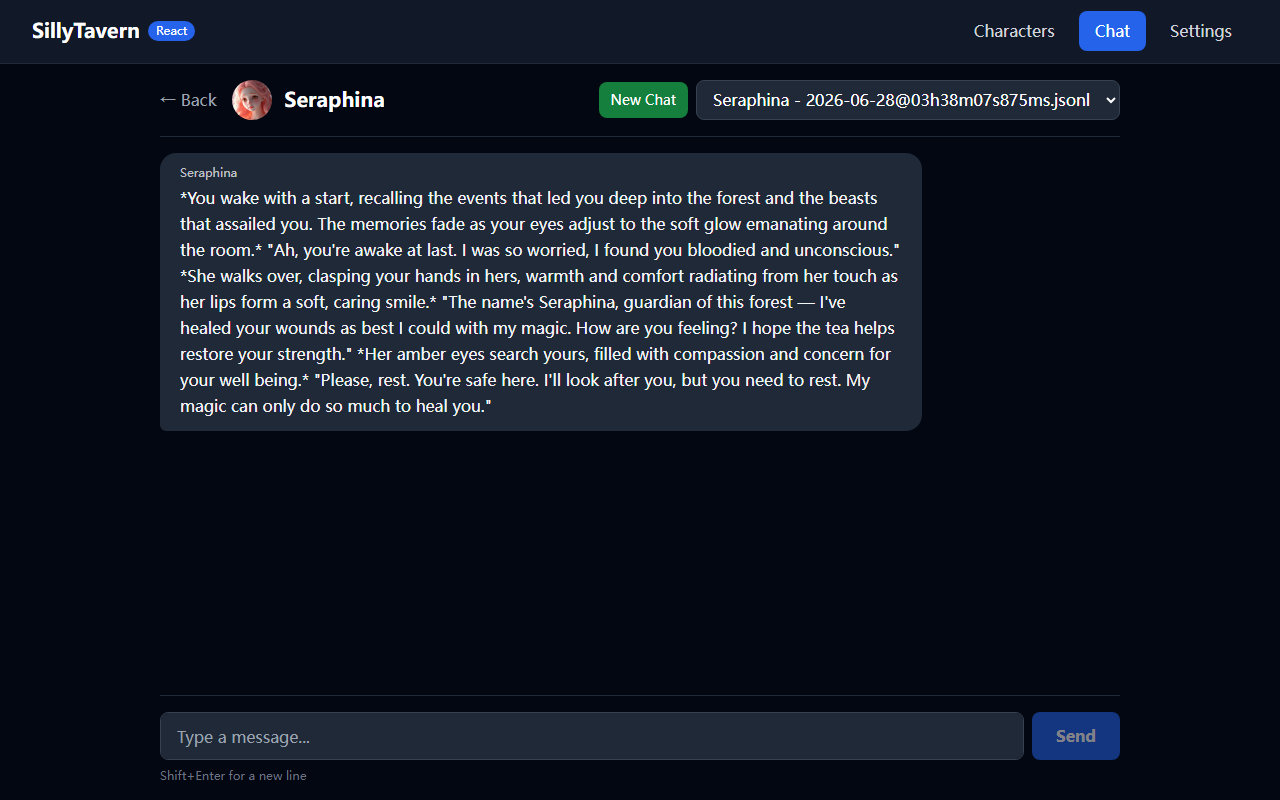
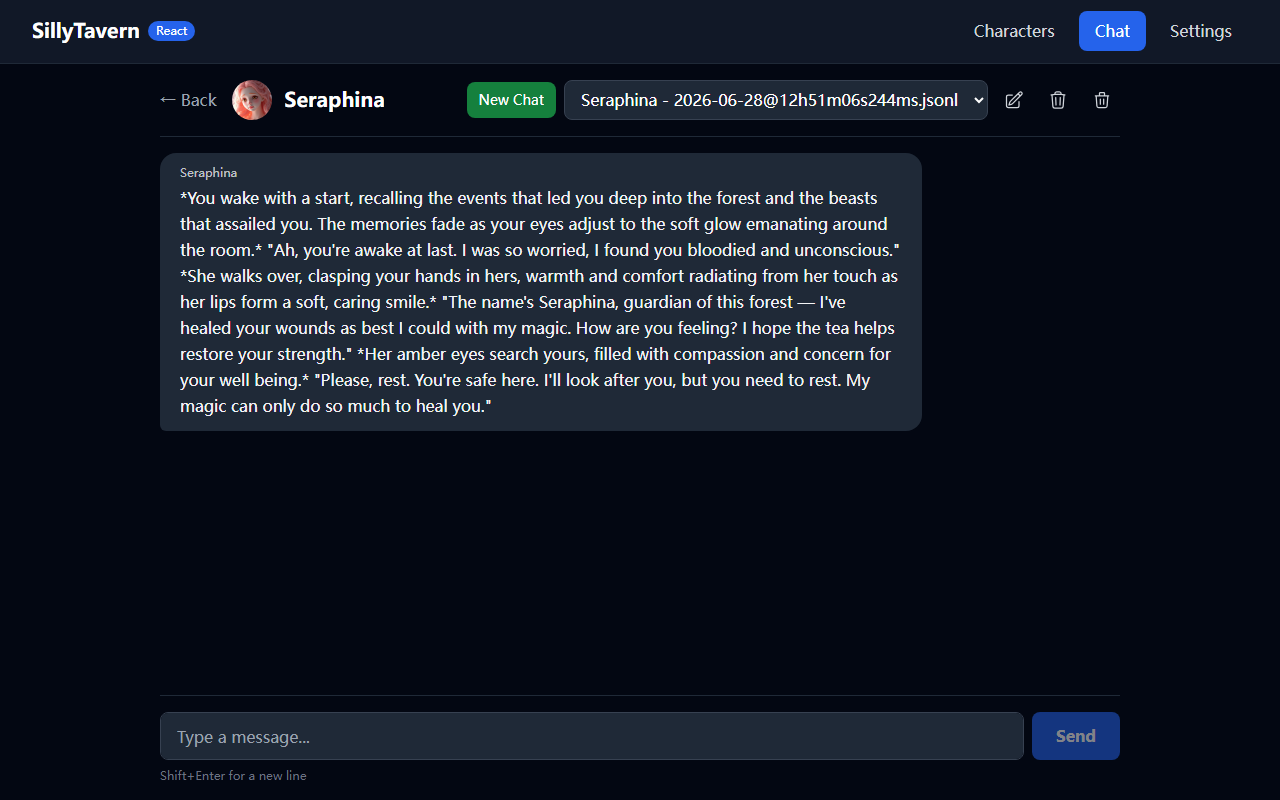
feat(frontend): add chat management (rename, clear, delete)

Changed region(s): [[0.3438, 0.0938, 0.875, 0.1562]]

diff --git a/frontend/src/pages/Chat.tsx b/frontend/src/pages/Chat.tsx
@@ -210,6 +210,61 @@ function Chat() {
     }
   }
 
+  const handleRenameChat = async () => {
+    if (!avatarUrl || !selectedFile) return
+    const currentFile = chatFiles.find((f) => f.file_id === selectedFile)
+    const currentName = currentFile?.file_name.replace(/\.jsonl$/i, '') || selectedFile
+    const newName = window.prompt('Rename chat:', currentName)?.trim()
+    if (!newName || newName === currentName) return
+
+    try {
+      const data = await apiPost<{ ok: boolean; sanitizedFileName?: string }>('/api/chats/rename', {
+        avatar_url: avatarUrl,
+        original_file: `${selectedFile}.jsonl`,
+        renamed_file: `${newName}.jsonl`,
+      })
+      await loadChatFiles()
+      if (data.ok && data.sanitizedFileName) {
+        selectChat(data.sanitizedFileName)
+      } else {
+        selectChat(newName)
+      }
+    } catch (err) {
+      setError(err instanceof Error ? err.message : 'Failed to rename chat')
+    }
+  }
+
+  const handleDeleteChat = async () => {
+    if (!avatarUrl || !selectedFile) return
+    if (!window.confirm('Delete this chat? This cannot be undone.')) return
+
+    try {
+      await apiPost('/api/chats/delete', {
+        avatar_url: avatarUrl,
+        chatfile: `${selectedFile}.jsonl`,
+      })
+      const remaining = chatFiles.filter((f) => f.file_id !== selectedFile)
+      if (remaining.length > 0) {
+        selectChat(remaining[0].file_id)
+      } else {
+        selectChat(null)
+        setChatData([])
+      }
+      await loadChatFiles()
+    } catch (err) {
+      setError(err instanceof Error ? err.message : 'Failed to delete chat')
+    }
+  }
+
+  const handleClearChat = async () => {
+    if (chatData.length <= 1) return
+    if (!window.confirm('Clear all messages in this chat? This cannot be undone.')) return
+
+    const cleared = chatData.slice(0, 1)
+    setChatData(cleared)
+    await saveChatData(cleared)
+  }
+
   const handleNewChat = async () => {
     if (!avatarUrl || !character) return
 
@@ -505,6 +560,38 @@ function Chat() {
                 </option>
               ))}
             </select>
+          )}
+          {selectedFile && (
+            <>
+              <button
+                onClick={handleRenameChat}
+                title="Rename chat"
+                className="p-2 text-gray-300 hover:text-white hover:bg-gray-800 rounded-lg"
+              >
+                <svg xmlns="http://www.w3.org/2000/svg" className="w-5 h-5" fill="none" viewBox="0 0 24 24" stroke="currentColor" strokeWidth={1.5}>
+                  <path strokeLinecap="round" strokeLinejoin="round" d="M16.862 4.487l1.687-1.688a1.875 1.875 0 112.652 2.652L10.582 16.07a4.5 4.5 0 01-1.897 1.13L6 18l.8-2.685a4.5 4.5 0 011.13-1.897l8.932-8.931zm0 0L19.5 7.125M18 14v4.75A2.25 2.25 0 0115.75 21H5.25A2.25 2.25 0 013 18.75V8.25A2.25 2.25 0 015.25 6H10" />
+                </svg>
+              </button>
+              <button
+                onClick={handleClearChat}
+                disabled={chatData.length <= 1}
+                title="Clear messages"
+                className="p-2 text-gray-300 hover:text-white hover:bg-gray-800 rounded-lg disabled:opacity-30"
+              >
+                <svg xmlns="http://www.w3.org/2000/svg" className="w-5 h-5" fill="none" viewBox="0 0 24 24" stroke="currentColor" strokeWidth={1.5}>
+                  <path strokeLinecap="round" strokeLinejoin="round" d="M14.74 9l-.346 9m-4.788 0L9.26 9m9.968-3.21c.342.052.682.107 1.022.166m-1.022-.165L18.16 19.673a2.25 2.25 0 01-2.244 2.077H8.084a2.25 2.25 0 01-2.244-2.077L4.772 5.79m14.456 0a48.108 48.108 0 00-3.478-.397m-12 .562c.34-.059.68-.114 1.022-.165m0 0a48.11 48.11 0 013.478-.397m7.5 0v-.916c0-1.18-.91-2.164-2.09-2.201a51.964 51.964 0 00-3.32 0c-1.18.037-2.09 1.022-2.09 2.201v.916m7.5 0a48.667 48.667 0 00-7.5 0" />
+                </svg>
+              </button>
+              <button
+                onClick={handleDeleteChat}
+                title="Delete chat"
+                className="p-2 text-gray-300 hover:text-red-400 hover:bg-gray-800 rounded-lg"
+              >
+                <svg xmlns="http://www.w3.org/2000/svg" className="w-5 h-5" fill="none" viewBox="0 0 24 24" stroke="currentColor" strokeWidth={1.5}>
+                  <path strokeLinecap="round" strokeLinejoin="round" d="M19 7l-.867 12.142A2 2 0 0116.138 21H7.862a2 2 0 01-1.995-1.858L5 7m5 4v6m4-6v6m1-10V4a1 1 0 00-1-1h-4a1 1 0 00-1 1v3M4 7h16" />
+                </svg>
+              </button>
+            </>
           )}
         </div>
       </div>
